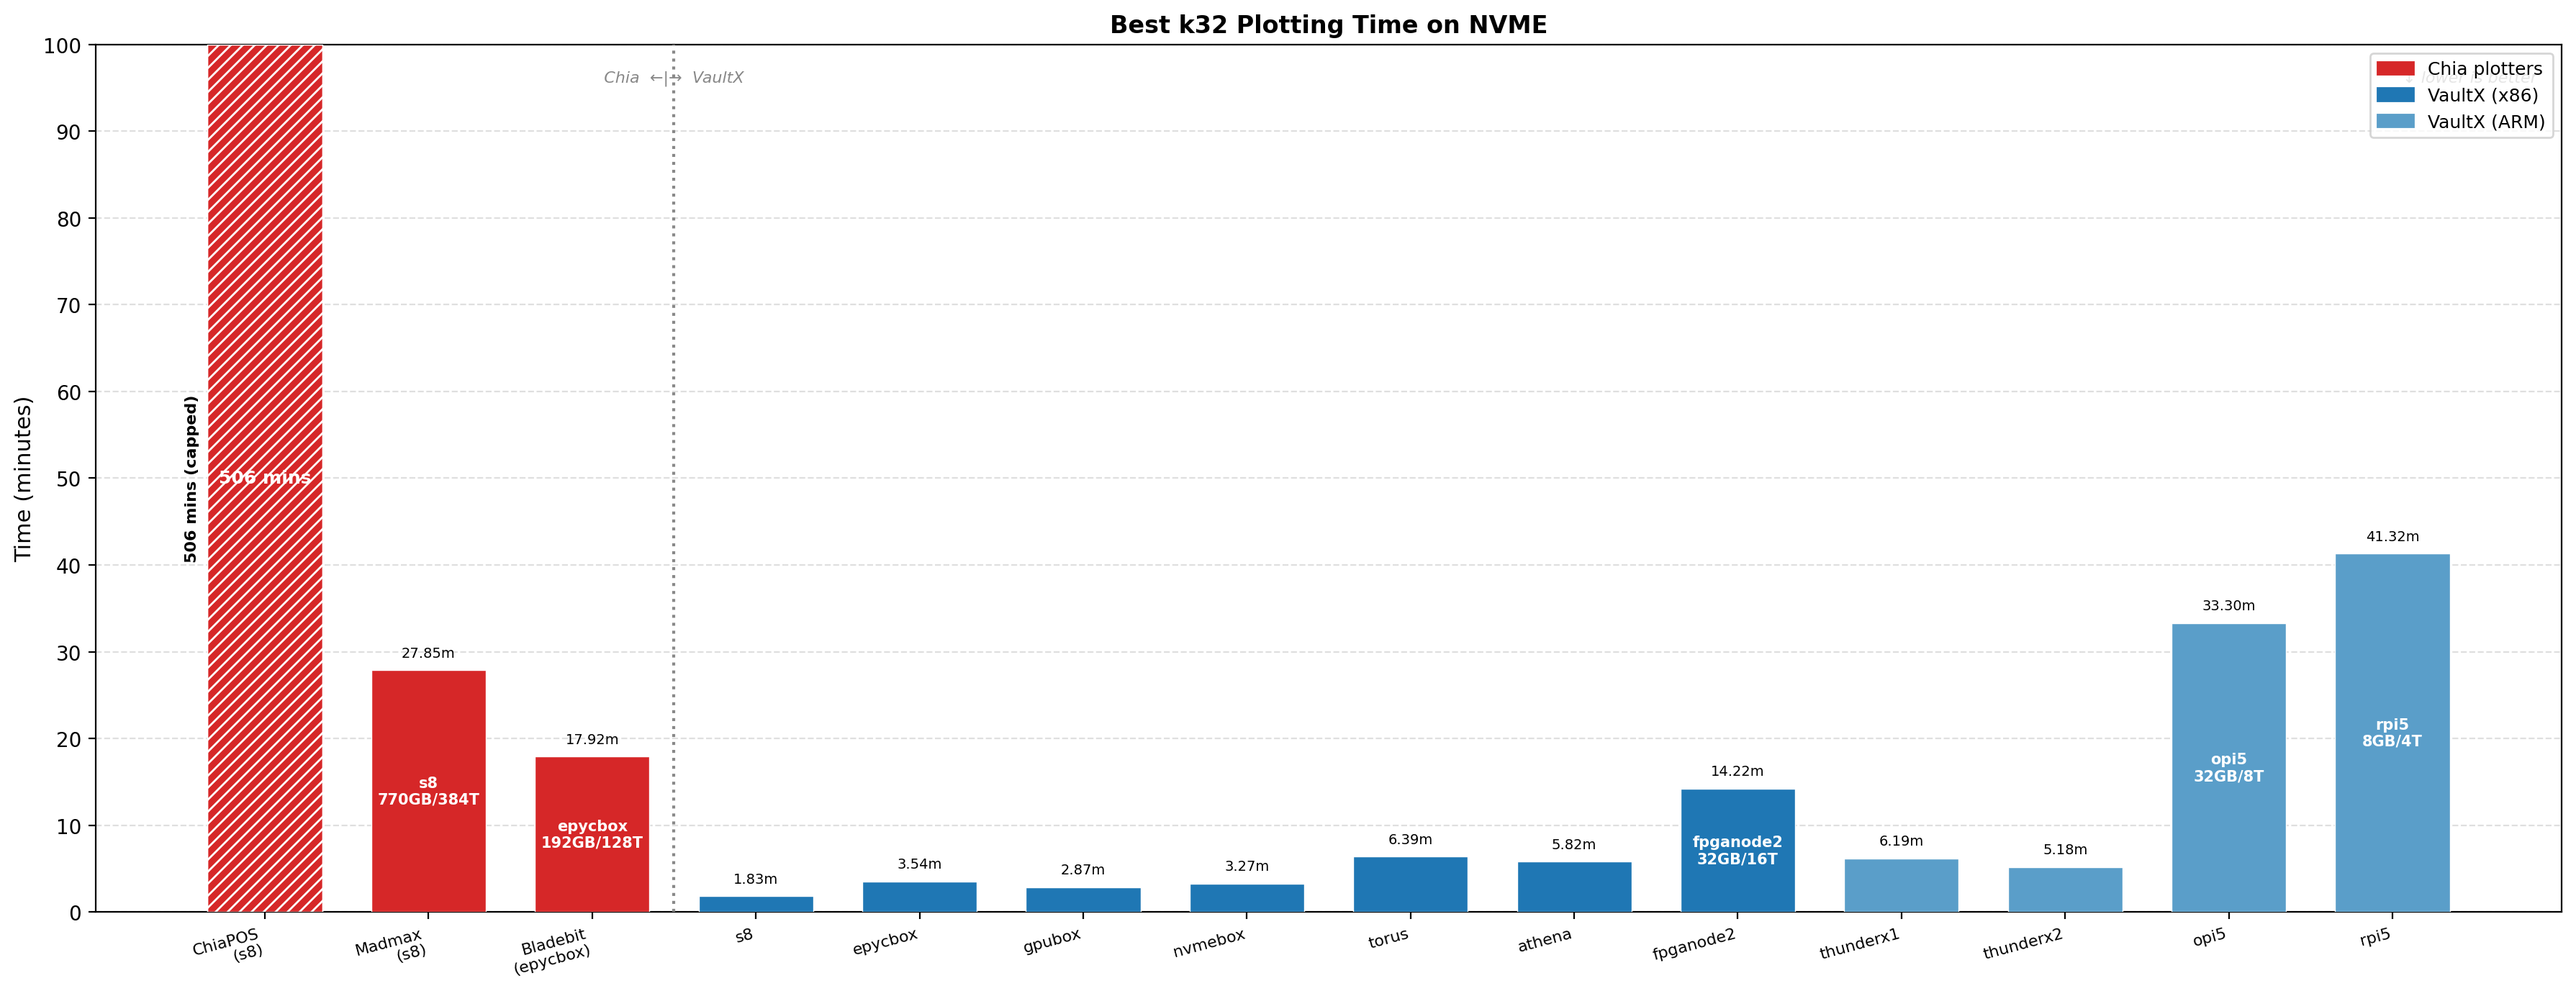
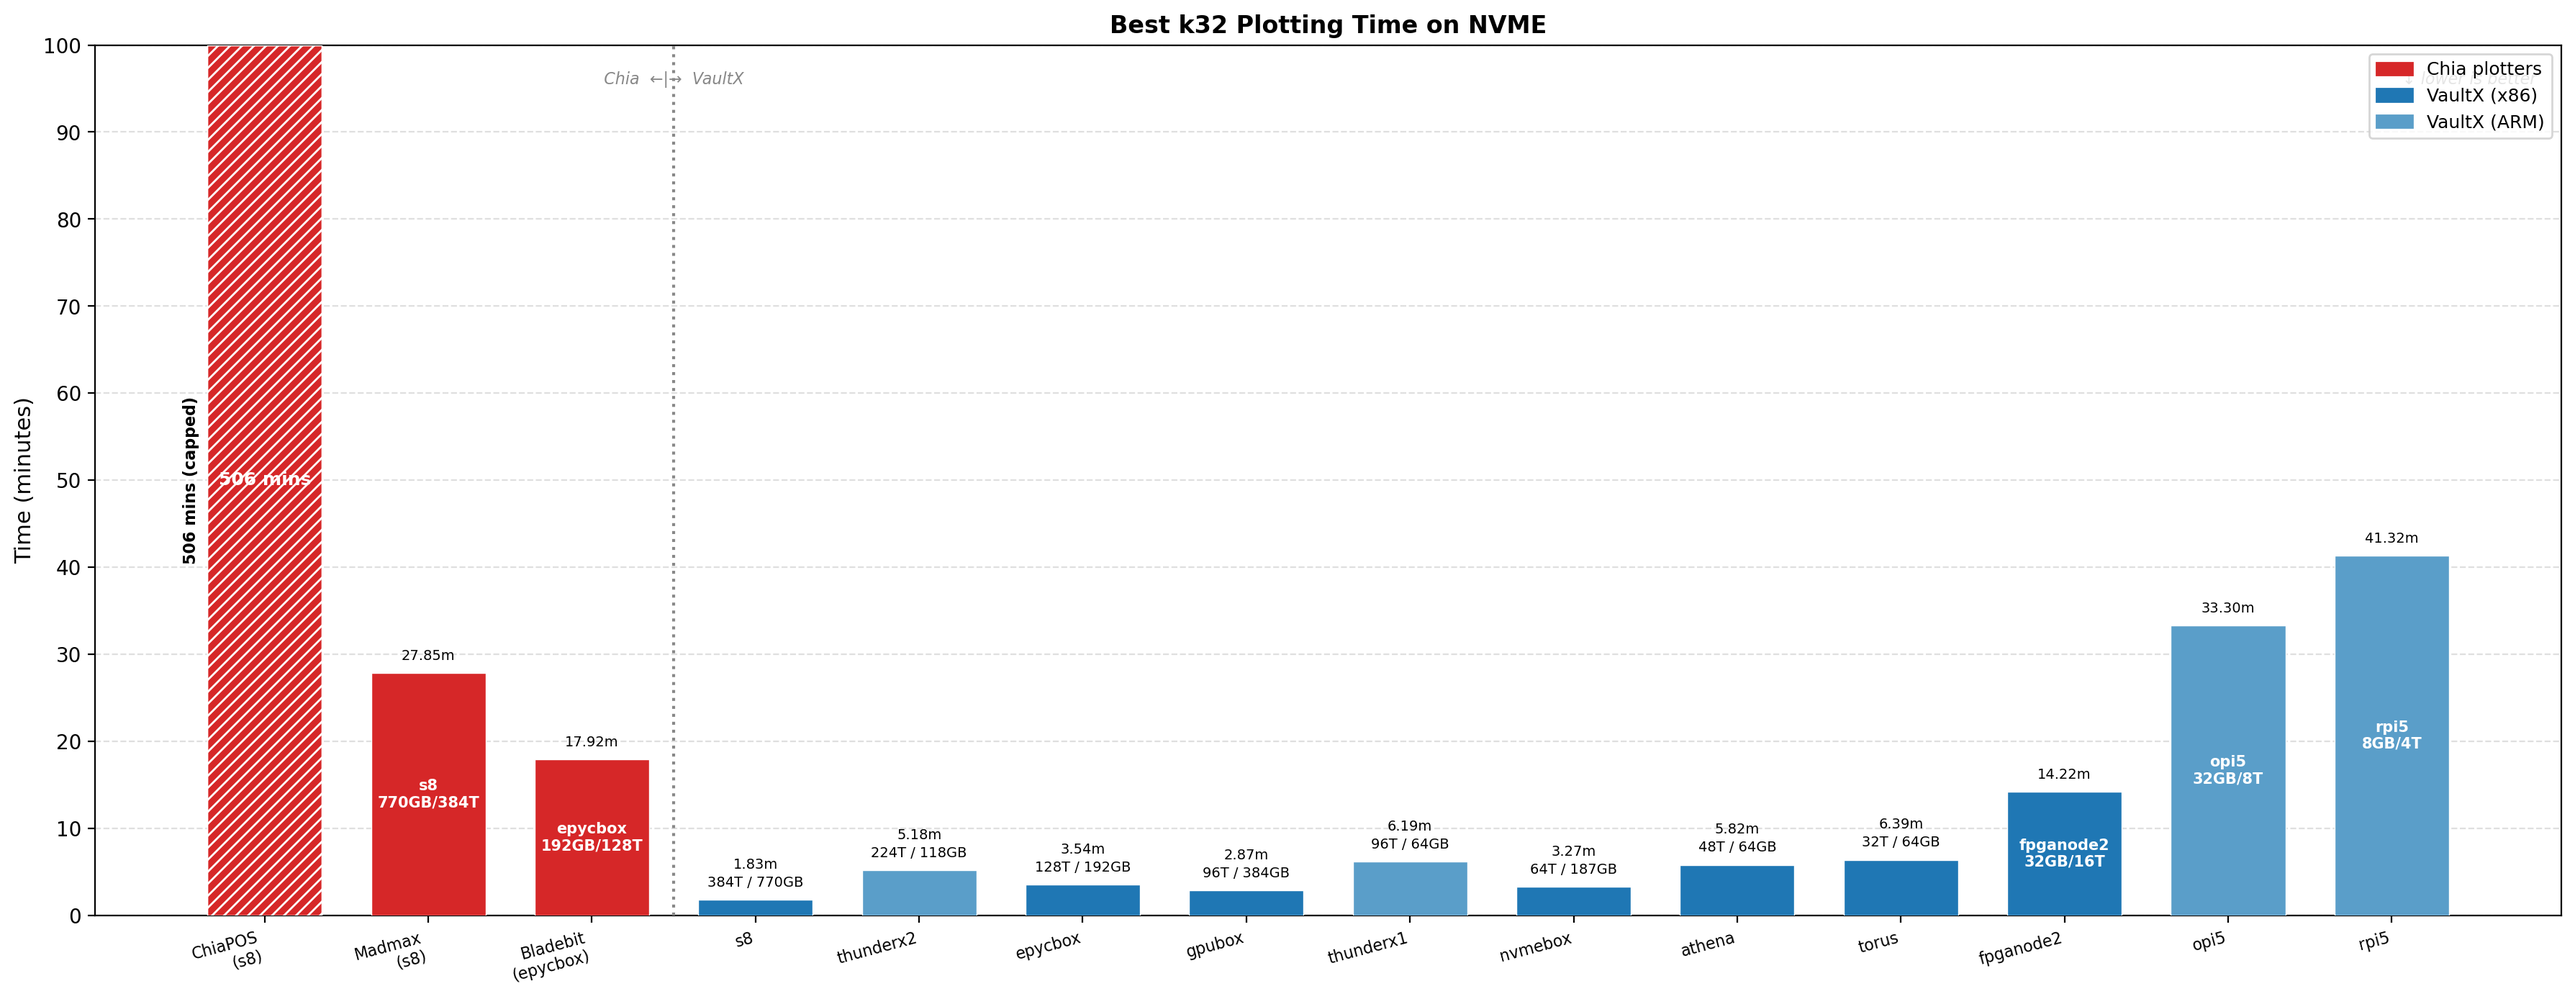
replotted some graphs

diff --git a/scripts/plotscripts/best_k32_nvme_comparison.py b/scripts/plotscripts/best_k32_nvme_comparison.py
@@ -26,18 +26,18 @@ CHIA_DATA = [
     ("Bladebit\n(epycbox)", 17.92, "epycbox", 128, 192),
 ]
 
-# VaultX – best k32 time on NVME (minutes), from task description
+# VaultX – best k32 time on NVME (minutes), sorted by thread count descending
 VAULTX_DATA = [
     # (machine_display, time_min, cores, mem_gb, is_arm)
     ("s8",        1.83,  384, 770,  False),
+    ("thunderx2", 5.18,  224, 118,  True),
     ("epycbox",   3.54,  128, 192,  False),
     ("gpubox",    2.87,   96, 384,  False),
-    ("nvmebox",   3.27,   64, 187,  False),
-    ("torus",     6.39,   32,  62,  False),
-    ("athena",    5.82,   48,  64,  False),
-    ("fpganode2", 14.22,  16,  32,  False),
     ("thunderx1", 6.19,   96,  64,  True),
-    ("thunderx2", 5.18,  224, 118,  True),
+    ("nvmebox",   3.27,   64, 187,  False),
+    ("athena",    5.82,   48,  64,  False),
+    ("torus",     6.39,   32,  64,  False),
+    ("fpganode2", 14.22,  16,  32,  False),
     ("opi5",     33.3,    8,  32,  True),
     ("rpi5",     41.32,   4,   8,  True),
 ]
@@ -100,18 +100,24 @@ def main():
                     ha="right", va="center", fontsize=8, color="black",
                     fontweight="bold", rotation=90, zorder=6)
         else:
-            # Time label just above bar
             offset = Y_CAP * 0.012
-            ax.text(x[i], t + offset, f"{t:.2f}m",
-                    ha="center", va="bottom", fontsize=7, color="black", zorder=6)
+            if t < 10:
+                # Bar too short for inside labels — show all info above
+                ax.text(x[i], t + offset, f"{t:.2f}m\n{cores}T / {mem}GB",
+                        ha="center", va="bottom", fontsize=7, color="black",
+                        zorder=6, linespacing=1.4)
+            else:
+                # Time label just above bar
+                ax.text(x[i], t + offset, f"{t:.2f}m",
+                        ha="center", va="bottom", fontsize=7, color="black", zorder=6)
 
-            # Machine/spec annotation inside the bar if tall enough
-            inside_thresh = Y_CAP * 0.12
-            if t >= inside_thresh:
-                ann_text = f"{mach}\n{mem}GB/{cores}T"
-                ax.text(x[i], t * 0.5, ann_text,
-                        ha="center", va="center", fontsize=7.5,
-                        color="white", fontweight="bold", zorder=5)
+                # Machine/spec annotation inside the bar if tall enough
+                inside_thresh = Y_CAP * 0.12
+                if t >= inside_thresh:
+                    ann_text = f"{mach}\n{mem}GB/{cores}T"
+                    ax.text(x[i], t * 0.5, ann_text,
+                            ha="center", va="center", fontsize=7.5,
+                            color="white", fontweight="bold", zorder=5)
 
     # Dotted separator between Chia and VaultX
     sep_x = sep_after + 0.5
